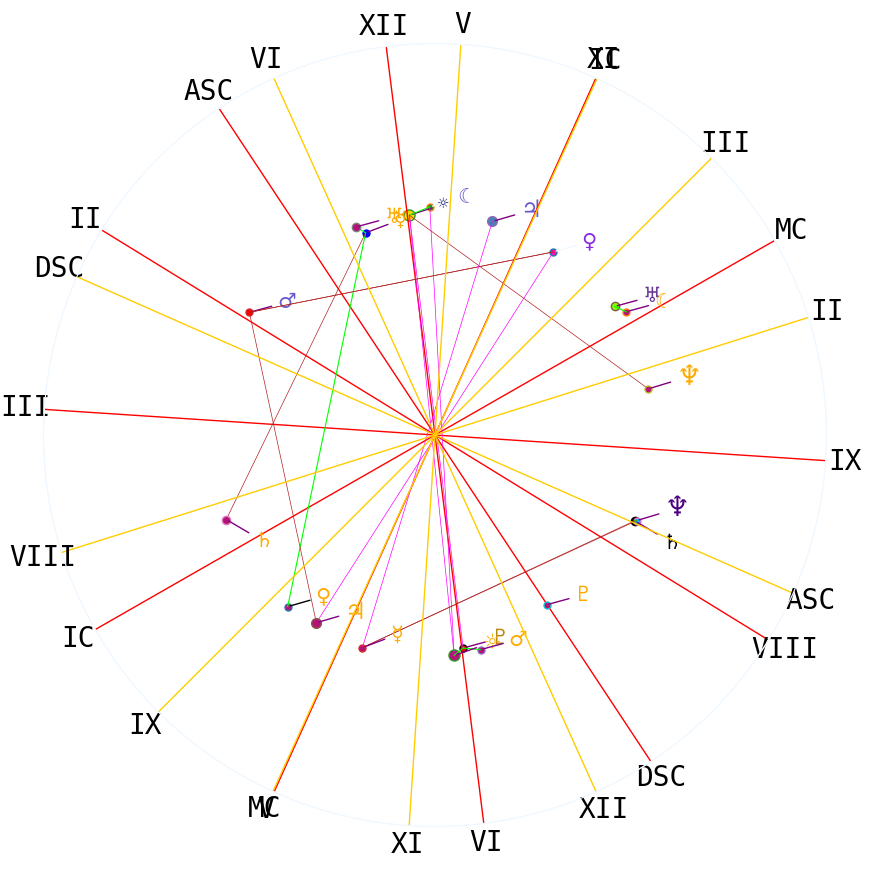
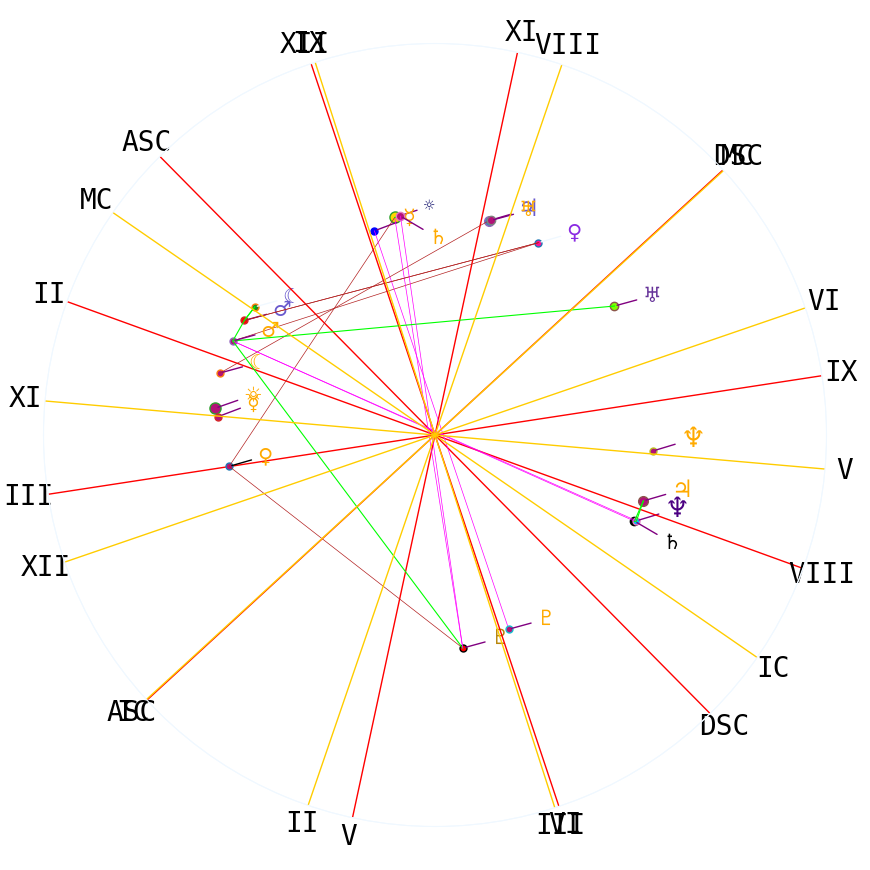
installed crispy-forms

diff --git a/astroplan/templates/transit_form.html b/astroplan/templates/transit_form.html
@@ -1,5 +1,5 @@
 {% load static %}
-
+{% load crispy_forms_tags %}
 
 <!DOCTYPE html>
 <html lang="en">
@@ -35,22 +35,21 @@
             <div class="menu-choice"><a href="#" target = '_blank'>Shop</a></div>
         </nav>
 
-
-             <div class="chart-form">
-                <h1> Planet chart for {{ date }}</h1>
+             <div class="chart-data" >
+                 <div id="chart-fig">
                   <img src="{% static 'plots/tr_chart_now.png' %}" alt="plot" id="chart-plot">
                     <img src="{% static 'images/tr_zr.png' %}" alt = "zodiac ring" id="zodiac_ring_tr">
-             </div>
-
-             <div class="chart-form">
+                     </div>
+             <div class="tr-chart-form">
                 <h1> Transit chart for any date </h1>
-                {{ tr_form.media }}
+
                     <form class="chart-forms" action="/transit_form/" target="_blank"  method="post">
                     {% csrf_token %}
-                    {{ tr_form.as_p }}
+                    {{ tr_form | crispy }}
                     <input type="submit" value="Submit">
                     </form>
                </div>
+             </div>
 
 
     <div class="sign-buttons">

diff --git a/astroplan/templates/layout.html b/astroplan/templates/layout.html
@@ -1,5 +1,6 @@
 
-{% load static%}
+{% load static %}
+{% load crispy_forms_tags %}
 
 <!DOCTYPE html>
 <html lang="en">
@@ -43,10 +44,9 @@
         <div class="chart-data">
                 <div class="chart-form">
                       <h3> Chart for any date </h3>
-                     {{ chart_form.media }}
                     <form class="chart-forms" action="/show_by_date/" target="_blank"  method="post">
                         {% csrf_token %}
-                        {{ chart_form.as_p }}
+                        {{ chart_form | crispy }}
                         <input class="chart-df" type="submit" value="Submit">
                     </form>
                 <table id="planet-list" >

diff --git a/astroplan/static/styles/layout.css b/astroplan/static/styles/layout.css
@@ -297,9 +297,11 @@ h1 {
 }
 
 
-.chart-form {
+.chart-forms {
     height: fit-content;
     width: fit-content;
+    background-color: red;
+    color: blue;
   }
 
 
@@ -329,5 +331,10 @@ h1 {
 
 
 
+.tr-chart-form {
+    margin-left: auto;
+    margin-right: auto;
+    color: gold;
+}
 
 

diff --git a/astroplan/views.py b/astroplan/views.py
@@ -930,8 +930,6 @@ def build_transit_chart(request):
 
 def chart_form(request):
 
-
-
     chart_form = ChartForm(request.POST or None, request.FILES or None)
 
     if chart_form.is_valid():
@@ -989,38 +987,46 @@ def chart_form(request):
 
         deg_intervals = [round(d[0][0]) for d in planet_list]
 
-        for i in range(len(deg_intervals)):
-            if deg_intervals[i] in range(300, 331):
-                sign = '♒'
-            if deg_intervals[i] in range(330, 361):
-                sign = 'pisces'
-            if deg_intervals[i] in range(0, 31):
-                sign = 'aries'
-            if deg_intervals[i] in range(30, 61):
-                sign = '♉'
-            if deg_intervals[i] in range(60, 91):
-                sign = 'gemini'
-            if deg_intervals[i] in range(90, 121):
-                sign = 'cancer'
-            if deg_intervals[i] in range(120, 151):
-                sign = 'leo'
-            if deg_intervals[i] in range(150, 181):
-                sign = 'virgo'
-            if deg_intervals[i] in range(180, 211):
-                sign = '♎'
-            if deg_intervals[i] in range(210, 241):
-                sign = '♏'
-            if deg_intervals[i] in range(240, 271):
-                sign = '♐'
-            if deg_intervals[i] in range(270, 301):
-                sign = '♑'
-            signs.append(sign)
+        def set_signs(name_list, deg_list):
+            if signs:
+                signs.clear()
+            round_deg = [round(d) for d in deg_list]  # rounded 360 degree list for setting signs
+            for i in range(len(deg_list)):
+                if round_deg[i] in range(300, 331):
+                    sign = '♒'
+                if round_deg[i] in range(330, 361):
+                    sign = '♓'
+                if round_deg[i] in range(0, 31):
+                    sign = '♈'
+                if round_deg[i] in range(30, 61):
+                    sign = '♉'
+                if round_deg[i] in range(60, 91):
+                    sign = '♊'
+                if round_deg[i] in range(90, 121):
+                    sign = '♋'
+                if round_deg[i] in range(120, 151):
+                    sign = '♌'
+                if round_deg[i] in range(150, 181):
+                    sign = '♍'
+                if round_deg[i] in range(180, 211):
+                    sign = '♎'
+                if round_deg[i] in range(210, 241):
+                    sign = '♏'
+                if round_deg[i] in range(240, 271):
+                    sign = '♐'
+                if round_deg[i] in range(270, 301):
+                    sign = '♑'
+                signs.append(sign)
+            deg_list_thirty = [round(c % 30, 2) for c in deg_list]
+            deg_form = [str(n).replace('.', '°').replace(',', '′,') for n in deg_list_thirty]
+            m = zip(name_list, deg_form, signs)
+            return list(m)
+
 
         planet_deg = zip(planet_symbols, signs, conv_r_result)
 
         # for table with houses
         house_names = ['8', '9', 'MC', '11', '12', 'ASC', '2', '3', 'IC', '5', '6', 'DSC']
-
 
 
         house_ax.set_rlim(-130, 100)

diff --git a/astroplan/forms.py b/astroplan/forms.py
@@ -14,35 +14,20 @@ class ChartForm(forms.ModelForm):
         model = Chart
         fields = '__all__'
         widgets = {
-            'chart_date': DateTimePickerInput(attrs={'class':'chart-df','placeholder': 'Chose date',
-                                           'style': 'color: rgb(159,0,255) background-color:aliceblue; font-size: x-large;'
-                                                    'border-radius: 3px; border: gold;'
-                                           }),
-            'city': forms.TextInput(attrs={'class':'chart-df','placeholder': 'Enter city',
-                                           'style': 'color: rgb(159,0,255) background-color:aliceblue; font-size: x-large;'
-                                                    'border-radius: 3px; border: gold; '
-                                           }),
-            'country': forms.TextInput(attrs={'class':'chart-df','placeholder': 'Enter country',
-                                           'style': 'color: rgb(159,0,255) background-color:aliceblue; font-size: x-large;'
-                                                    'border-radius: 3px; border: gold; '
-                                           }),
-        }
+            'chart_date': DateTimePickerInput()}
+
 
 class TransitChartForm(forms.ModelForm):
 
     class Meta:
-        style = {'class': 'chart-df','style': 'color: rgb(159,0,255) background-color:aliceblue; font-size: x-large;'
-                          'border-radius: 3px; border: gold'}
         model = TransitChart
         fields = '__all__'
-        widgets = {'event_date': DateTimePickerInput(attrs= style),
-                   'transit_date': DateTimePickerInput(attrs=style),
-                   'event_country': forms.TextInput(attrs=style),
-                   'transit_country': forms.TextInput(attrs=style),
-                   'event_city': forms.TextInput(attrs=style),
-                   'transit_city': forms.TextInput(attrs=style),
-
+        widgets = {'event_date': DateTimePickerInput(attrs= {'class': 'form-control'}),
+                   'transit_date': DateTimePickerInput(attrs= {'class': 'form-control'})
                    }
+
+
+
 
 
 

diff --git a/astroplan/build_plot.py b/astroplan/build_plot.py
@@ -240,7 +240,7 @@ ax1.annotate('♇', textcoords='offset points', xytext=(20, 3), xycoords='data',
 aspect(9)
 swe.close()
 # plt.savefig('chart_and_houses.png')
-# plt.show()
+plt.show()
 
 
 
@@ -259,18 +259,18 @@ swe.close()
 #
 
 # print(names_and_coords[0][0])
-for i in range(len(names_and_coords) - 1):
-    z = abs(round(names_and_coords[0][1][0][0]) - round(names_and_coords[i + 1][1][0][0]))
-    if z in conjunction and names_and_coords [0][1][0][0] != names_and_coords[i + 1][1][0][0]:
-        aspected_planet_c.append(names_and_coords[0][0])
-        ap_c_unique = list(set(aspected_planet_c))
-        c_angle.append(f'{z}')
-        c_unique = list(set(c_angle))
-        conjunctions.append(names_and_coords[i+1][0])
-        ast = zip(ap_c_unique, c_unique, conjunctions)
-        print(z)
-
-        print(list(ast))
+# for i in range(len(names_and_coords) - 1):
+#     z = abs(round(names_and_coords[0][1][0][0]) - round(names_and_coords[i + 1][1][0][0]))
+#     if z in conjunction and names_and_coords [0][1][0][0] != names_and_coords[i + 1][1][0][0]:
+#         aspected_planet_c.append(names_and_coords[0][0])
+#         ap_c_unique = list(set(aspected_planet_c))
+#         c_angle.append(f'{z}')
+#         c_unique = list(set(c_angle))
+#         conjunctions.append(names_and_coords[i+1][0])
+#         ast = zip(ap_c_unique, c_unique, conjunctions)
+#         print(z)
+#
+#         print(list(ast))
 
 
 

diff --git a/astroplan/utils.py b/astroplan/utils.py
@@ -52,7 +52,7 @@ def build_plot(timestamp:dt, filename):
     px = 1 / plt.rcParams['figure.dpi']
     plt.switch_backend('AGG')
     fig = plt.figure(figsize=(870 * px, 870 * px))
-    fig.suptitle(f'Planet chart for ,{timestamp.strftime('%Y, %B, %d, %H:%M')}', size=17)
+    fig.suptitle("Today chart", size=17, color='aliceblue')
     fig.patch.set_alpha(0.0)
     # graph = get_graph()
 

diff --git a/astroknow/settings.py b/astroknow/settings.py
@@ -42,6 +42,9 @@ INSTALLED_APPS = [
     'astroplan',
     'users',
     'django_flatpickr',
+    'crispy_forms',
+    'crispy_bootstrap5',
+
 ]
 
 MIDDLEWARE = [
@@ -134,3 +137,5 @@ STATIC_URL = 'static/'
 
 DEFAULT_AUTO_FIELD = 'django.db.models.BigAutoField'
 AUTH_USER_MODEL = 'users.CustomUser'
+CRISPY_ALLOWED_TEMPLATE_PACKS = "bootstrap5"
+CRISPY_TEMPLATE_PACK = "bootstrap5"
